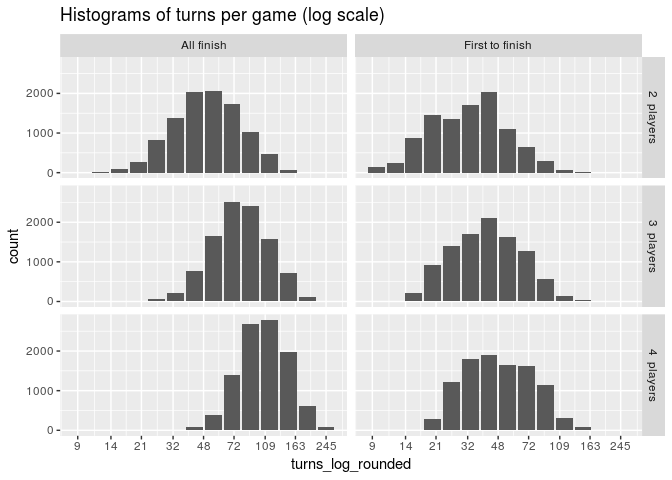
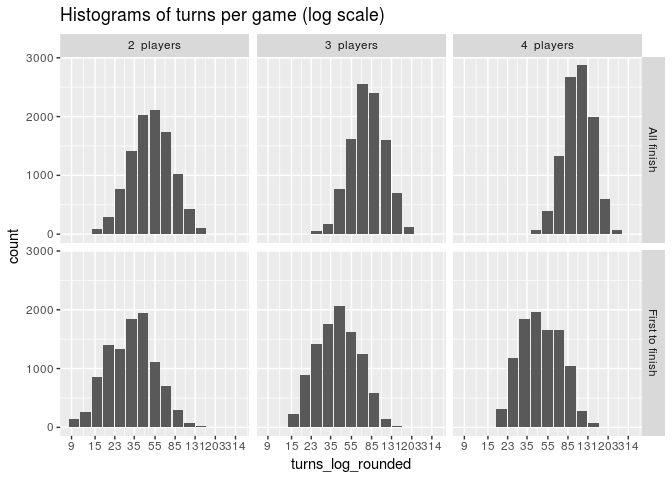
Flipped the facet_grid arrangement for easier comparison

diff --git a/README.md b/README.md
@@ -164,12 +164,12 @@ game_summary
     ## # A tibble: 6 x 6
     ##         allfinish players     mean median       sd percentile95
     ##             <chr>   <int>    <dbl>  <dbl>    <dbl>        <dbl>
-    ## 1      All finish       2  55.3544     51 24.79333          105
-    ## 2      All finish       3  83.2107     78 31.08375          142
-    ## 3      All finish       4 111.1637    107 35.21247          176
-    ## 4 First to finish       2  36.8452     34 19.73684           74
-    ## 5 First to finish       3  45.5433     42 21.95013           87
-    ## 6 First to finish       4  53.1796     48 24.01684           96
+    ## 1      All finish       2  55.4326     51 24.84627          104
+    ## 2      All finish       3  83.5271     78 30.99956          142
+    ## 3      All finish       4 111.4303    107 35.06857          175
+    ## 4 First to finish       2  36.9638     34 19.88696           74
+    ## 5 First to finish       3  45.4566     42 21.95004           87
+    ## 6 First to finish       4  52.6376     48 23.55061           96
 
 ``` r
 game_summary %>%
@@ -207,7 +207,7 @@ game_dist %>%
     geom_bar(stat = "identity") +
     scale_x_continuous(trans = "log",
                        breaks = lab) +
-    facet_grid(players_text ~ allfinish) +
+    facet_grid(allfinish ~ players_text) +
     ggtitle("Histograms of turns per game (log scale)")
 ```
 
